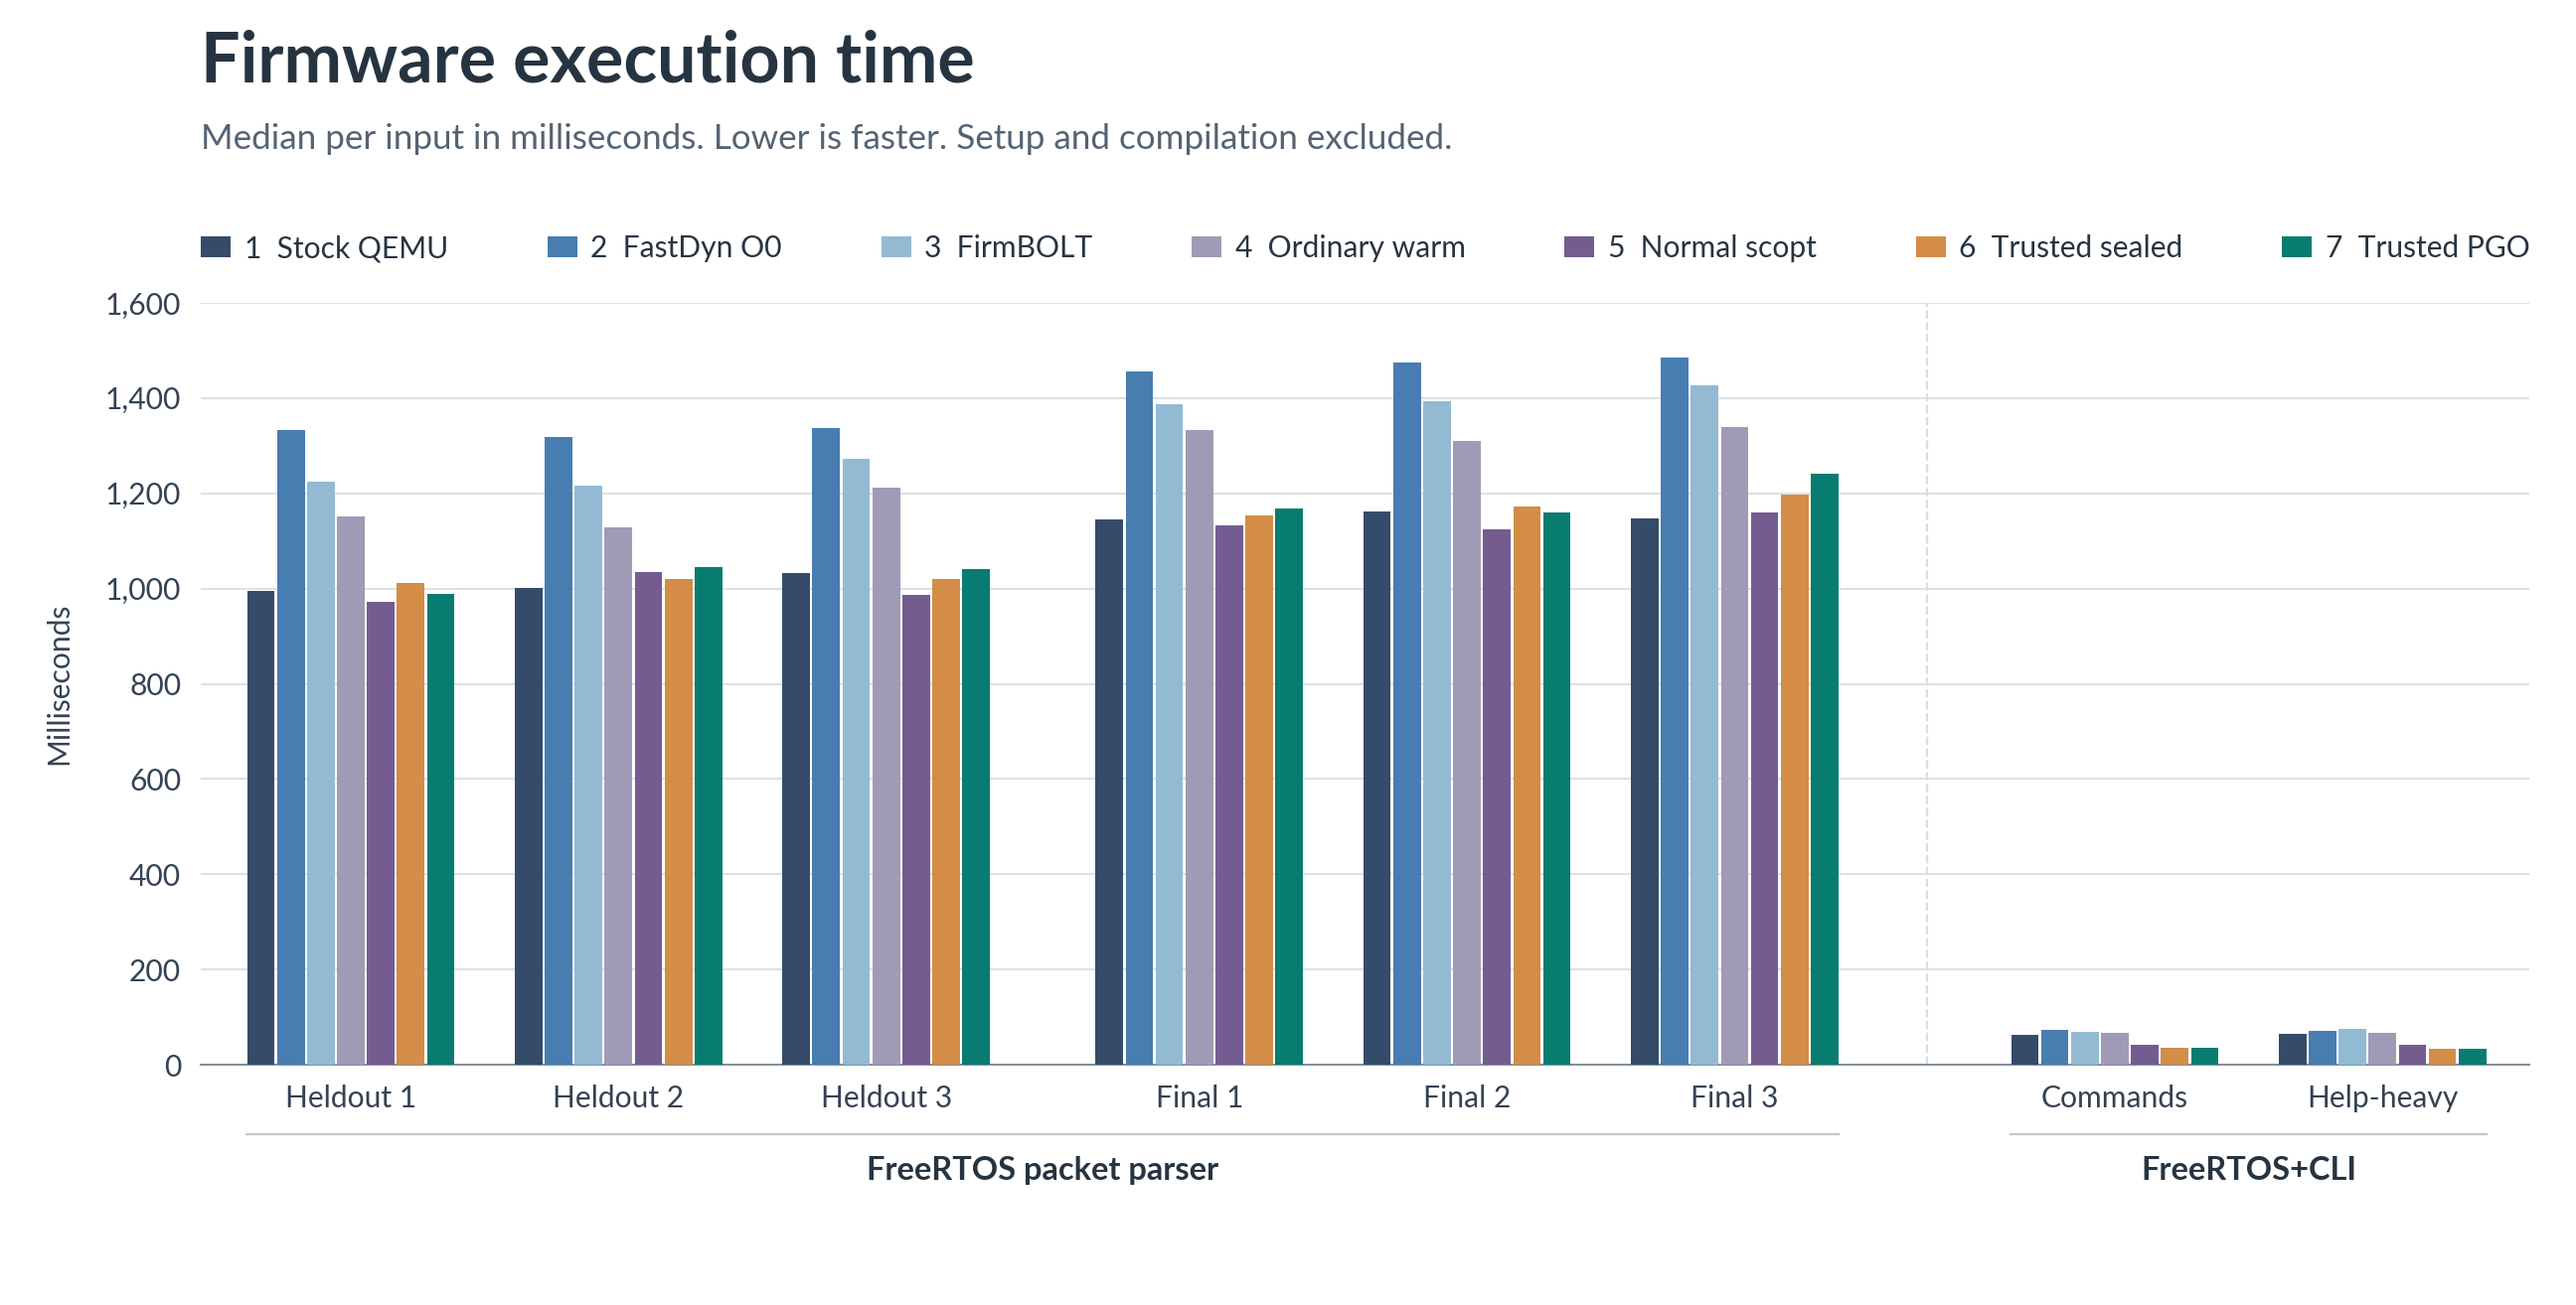
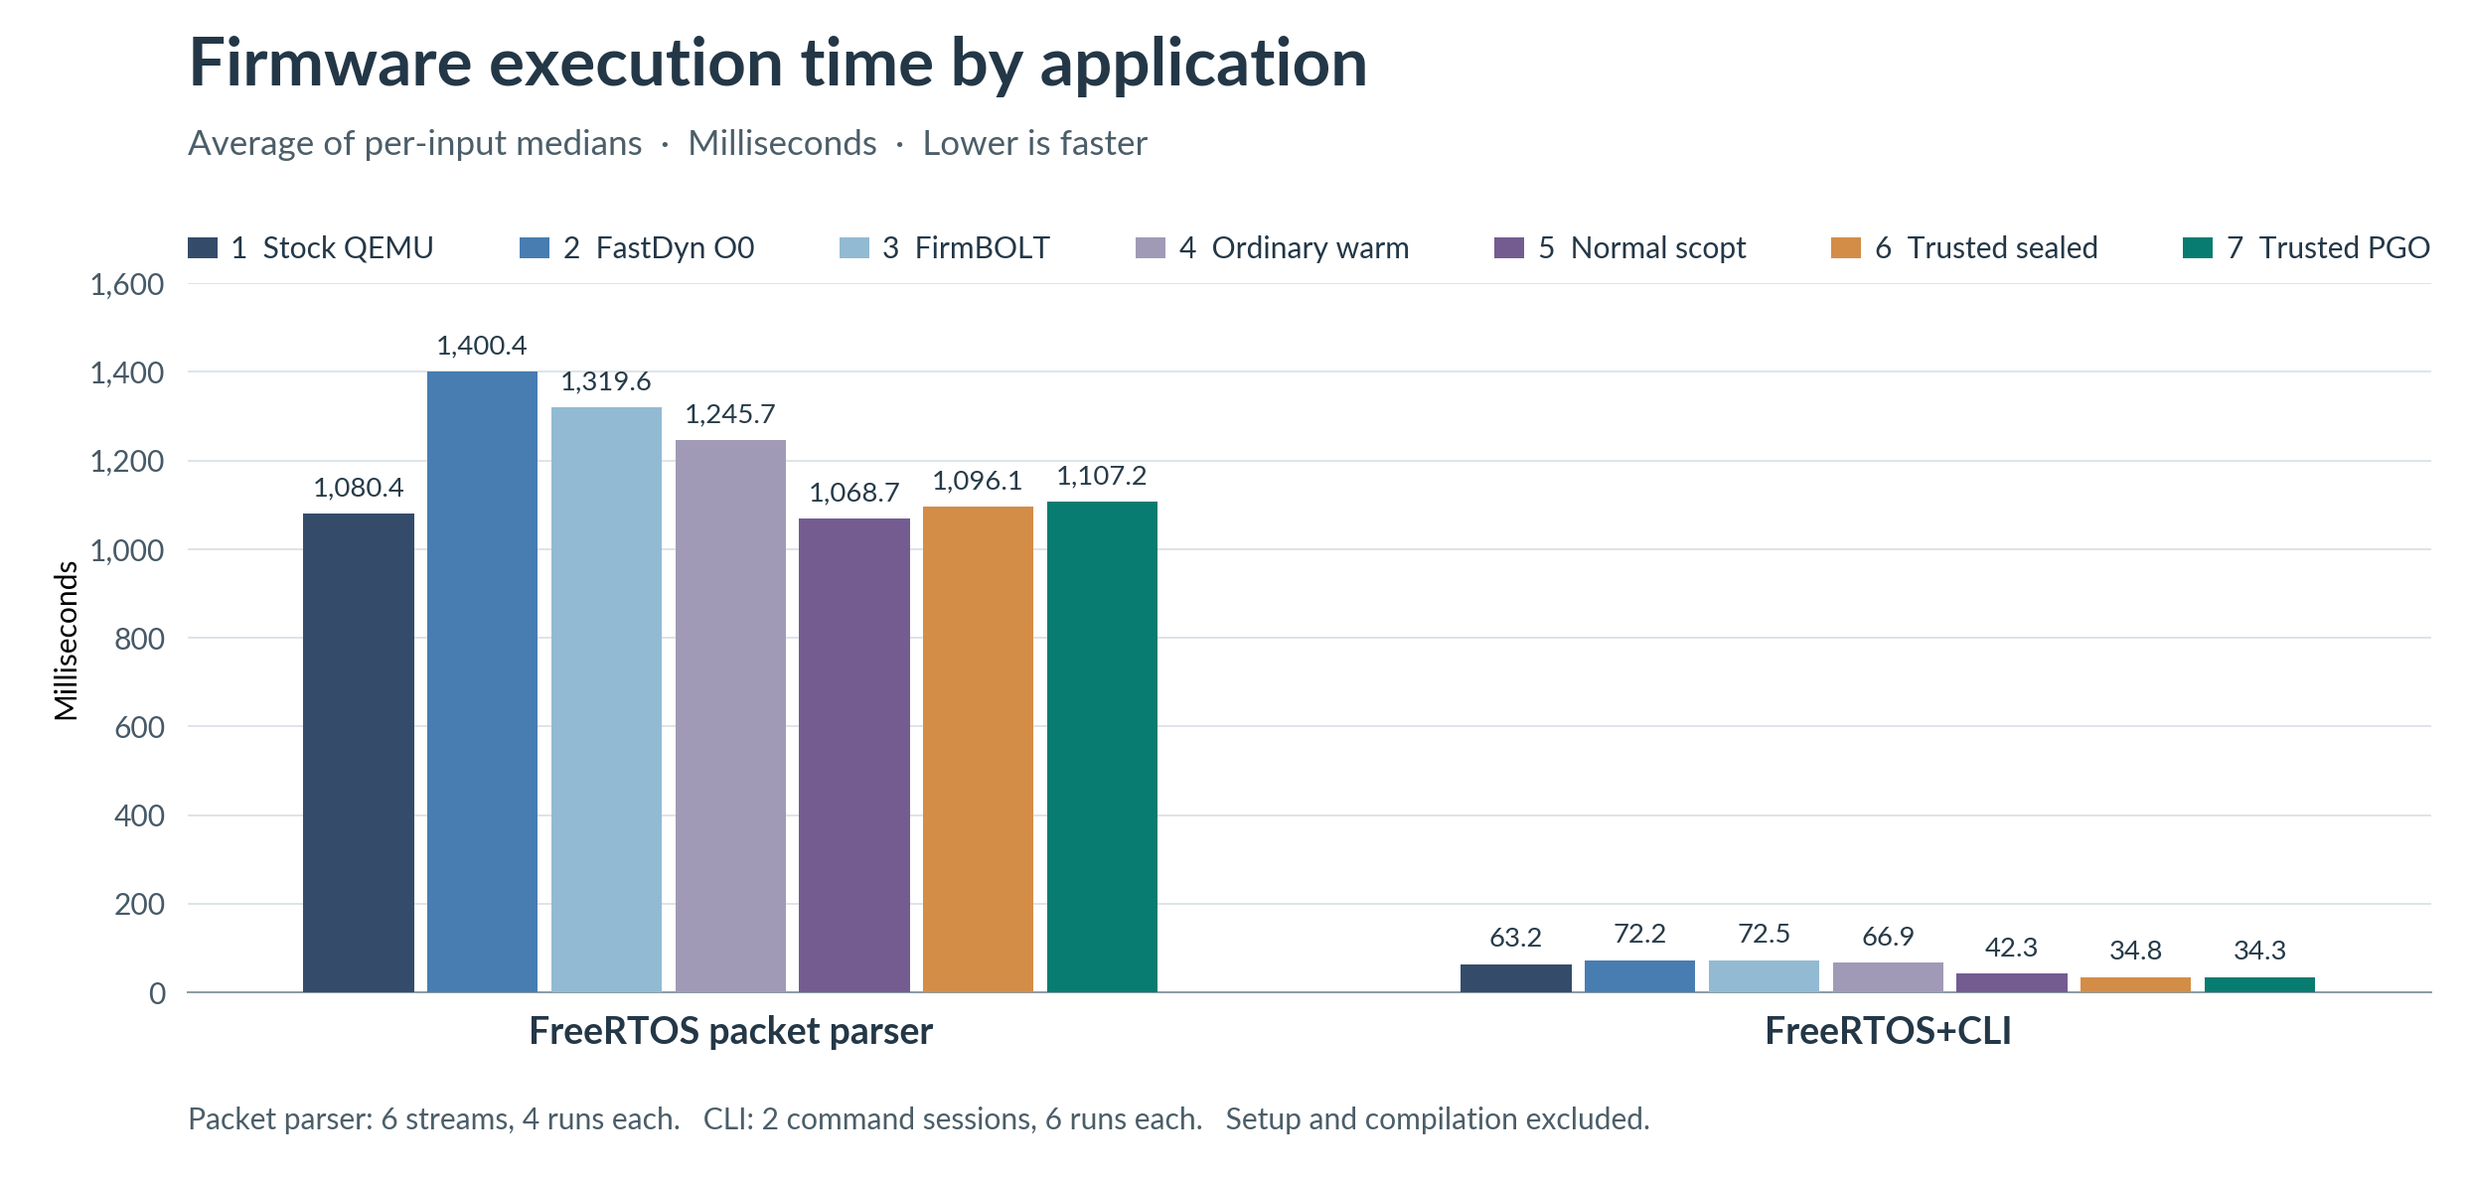
docs: group the seven replay configurations by application

diff --git a/tools/scopt/experiments/hot-loop-inline/README.md b/tools/scopt/experiments/hot-loop-inline/README.md
@@ -19,7 +19,14 @@ and [trusted PGO pipeline](../../docs/sealed-whopr-7.md).
 | 6 | Trusted sealed public cache of the FirmBOLT guest |
 | 7 | Same trusted sealed capture with automatic hot-loop PGO |
 
-![Median firmware time in milliseconds for all seven configurations on six packet streams and two CLI sessions. Normal scopt was faster than ordinary warm on every input. Trusted PGO had mixed results against trusted sealed replay.](seven-configurations.png)
+![Firmware execution time by application. Each application has seven bars on one millisecond axis. Normal scopt had the lowest average time for the FreeRTOS packet parser, and trusted PGO had the lowest for FreeRTOS+CLI.](seven-configurations.png)
+
+Each bar is the arithmetic mean of the input medians for that application.
+The packet parser ran six streams. The three `heldout` streams emphasized
+key/value operations, text, and malformed packets. The three `final` streams
+emphasized sensor data and longer binary payloads. These names come from the
+original evaluation splits. All six contributed equally to the packet-parser
+group. The CLI group gives equal weight to the mixed-command and help-heavy sessions.
 
 Record the firmware work window in a fresh process for every arm. Build,
 capture, profile, optimize, compile launches and stage inputs before scoring.
